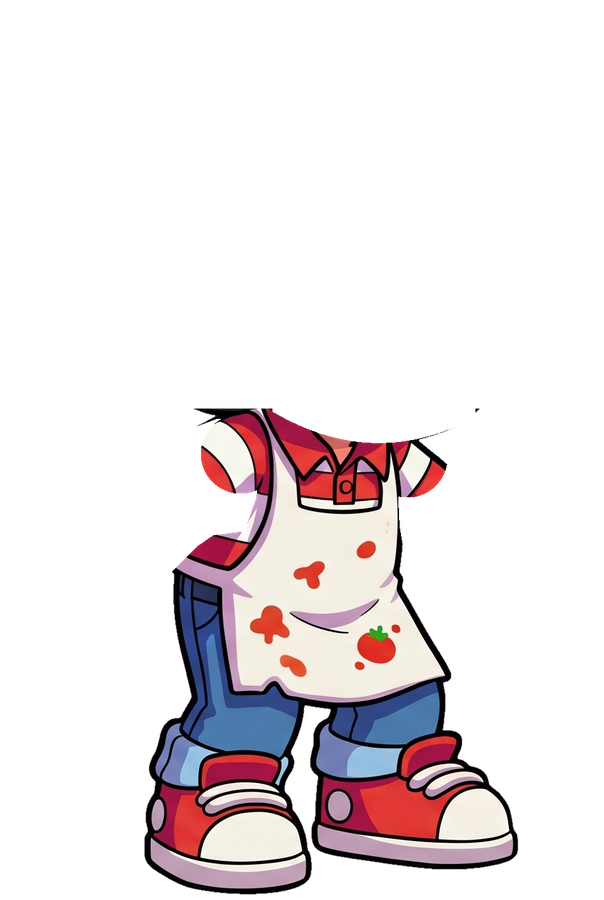
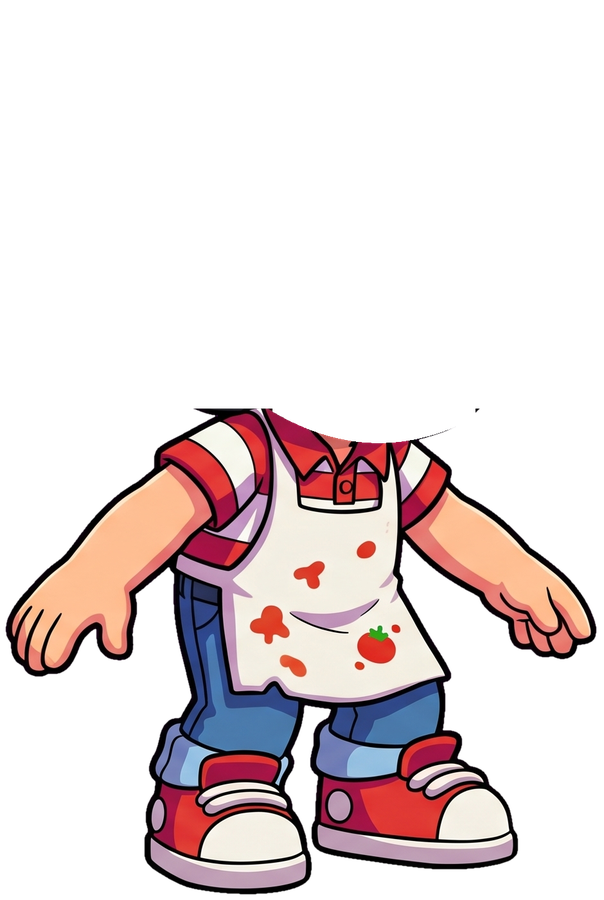
Pizza Rush: Tony arms merged into the body and never animated
Claude-Session: https://claude.ai/code/session_0182kiXh1gpsSteoiPFXToWD

Changed region(s): [[0.0, 0.4667, 0.447, 0.7778], [0.6556, 0.4978, 1.0, 0.7467]]

diff --git a/Reimei Games/tools/RigLab/atelier/pizza-rush/tony_rig.py b/Reimei Games/tools/RigLab/atelier/pizza-rush/tony_rig.py
@@ -17,8 +17,6 @@ os_ = lambda nom, piv, parent: {'name': nom, 'pivot': piv, 'parent': parent}
 parts = [P['socle'], os_('bassin', cv(1400, 1010), 'socle'),
          {**P['haut'], 'pivot': cv(1400, 860), 'parent': 'bassin'},
          os_('cou', COU, 'haut')]
-for b, piv in [('bras-d', cv(1282, 792)), ('bras-g', cv(1542, 798))]:
-    parts.append({**P[b], 'pivot': piv, 'parent': 'haut'})
 parts.append({**P['tete'], 'pivot': COU, 'parent': 'cou'})
 for v in VARIANTES: parts.append({**P[v], 'pivot': COU, 'parent': 'cou', 'alpha': 0})
 c = P['corps']; c['mesh'] = {'grid': [8, 12], 'falloff': 2.5,
@@ -56,33 +54,29 @@ def poser_pops():
             k(a, 'cou', t + 260, 'inOutSine', sx=1, sy=1)
 IN = '[0.22,1.4,0.4,1]'; OUT = '[0.4,0,1,1]'; IMP = '[0.2,1.8,0.4,1]'; S = 'inOutSine'; GL = '[0.12,0.72,0.12,1]'
 
-# ---------------- idle : respire, la tête suit avec retard, les bras balancent, clignement
+# BRAS : jamais animés (demande : ils restent toujours immobiles)
+# ---------------- idle : respire, la tête suit avec retard, clignement
 anim('idle', 2400, 1)
 for t, sy, y in [(0, 1, 0), (1200, 1.018, -3), (2400, 1, 0)]: k('idle', 'haut', t, S, sy=sy, y=y)
 for t, rot in [(0, 0), (700, 1.5), (1900, -1.2), (2400, 0)]: k('idle', 'cou', t, S, rot=r(rot))
-for t, rot in [(0, 0), (1260, -2.5), (2400, 0)]: k('idle', 'bras-d', t, S, rot=r(rot))
-for t, rot in [(0, 0), (1300, 2.5), (2400, 0)]: k('idle', 'bras-g', t, S, rot=r(rot))
 visage('idle', 'tete-yeux-fermes', 1640, 1780, pop=False)
 
-# ---------------- gain (petit) : 1370 ms, rebond + bras levé, sourire jusqu'aux oreilles
+# ---------------- gain (petit) : 1370 ms, rebond, sourire jusqu'aux oreilles
 A = 'gain'; anim(A, 1370, 0)
 k(A, 'socle', 0, sx=1, sy=1); k(A, 'socle', 110, S, sx=1.05, sy=0.93); k(A, 'socle', 300, IMP, sx=0.97, sy=1.06)
 k(A, 'socle', 520, S, sx=1, sy=1); k(A, 'socle', 1370, sx=1, sy=1)
 k(A, 'haut', 0, y=0); k(A, 'haut', 110, S, y=6); k(A, 'haut', 300, IN, y=-14); k(A, 'haut', 1100, S, y=-6); k(A, 'haut', 1370, S, y=0)
-k(A, 'bras-d', 0, rot=0); k(A, 'bras-d', 140, S, rot=r(-6)); k(A, 'bras-d', 360, IN, rot=r(34))
-k(A, 'bras-d', 560, S, rot=r(28)); k(A, 'bras-d', 760, S, rot=r(35)); k(A, 'bras-d', 960, S, rot=r(30)); k(A, 'bras-d', 1370, S, rot=0)
-k(A, 'bras-g', 0, rot=0); k(A, 'bras-g', 180, S, rot=r(4)); k(A, 'bras-g', 400, IN, rot=r(-12)); k(A, 'bras-g', 1370, S, rot=0)
 k(A, 'cou', 0, rot=0); k(A, 'cou', 330, IN, rot=r(-5)); k(A, 'cou', 1000, S, rot=r(-3)); k(A, 'cou', 1370, S, rot=0)
 visage(A, 'tete-rire', 300, 1180)
 L.append(f"evenement {A} 300 name=gain")
 
-# ---------------- grosgain : saut bras en l'air, la casquette décolle et retombe
+# ---------------- grosgain : saut, la casquette décolle et retombe
 A = 'grosgain'; anim(A, 1700, 0)
 k(A, 'socle', 0, y=0, sx=1, sy=1); k(A, 'socle', 120, S, y=14, sx=1.08, sy=0.88)
 k(A, 'socle', 260, '[0.3,1.5,0.5,1]', y=-90, sx=0.94, sy=1.1); k(A, 'socle', 520, GL, y=-120, sx=1, sy=1)
 k(A, 'socle', 760, OUT, y=0, sx=1, sy=1); k(A, 'socle', 820, IMP, sx=1.08, sy=0.9); k(A, 'socle', 980, S, sx=0.98, sy=1.03)
 k(A, 'socle', 1120, S, sx=1, sy=1); k(A, 'socle', 1700, sx=1, sy=1)
-# bras immobiles pendant le saut (demande : ils ne bougent pas quand il saute)
+# (bras : dans le corps, jamais animés)
 # fin de gain : il rebondit de joie sur place (pas de temps mort)
 for t, y, ease in [(0, 0, None), (1150, 0, None), (1300, -7, S), (1450, 0, S), (1580, -3, S), (1700, 0, S)]:
     k(A, 'haut', t, ease, y=y)
@@ -98,8 +92,6 @@ A = 'presque'; anim(A, 1500, 0)
 k(A, 'socle', 0, x=0, sx=1, sy=1); k(A, 'socle', 90, S, x=6, sx=1.03, sy=0.95); k(A, 'socle', 260, IMP, x=-14, sx=0.96, sy=1.06)
 k(A, 'socle', 600, S, x=-10, sx=1, sy=1); k(A, 'socle', 1500, S, x=0)
 k(A, 'haut', 0, rot=0); k(A, 'haut', 260, IMP, rot=r(-4)); k(A, 'haut', 1000, S, rot=r(-2)); k(A, 'haut', 1500, S, rot=0)
-k(A, 'bras-d', 0, rot=0); k(A, 'bras-d', 250, IMP, rot=r(22)); k(A, 'bras-d', 900, S, rot=r(16)); k(A, 'bras-d', 1500, S, rot=0)
-k(A, 'bras-g', 0, rot=0); k(A, 'bras-g', 290, IMP, rot=r(-22)); k(A, 'bras-g', 940, S, rot=r(-16)); k(A, 'bras-g', 1500, S, rot=0)
 k(A, 'casquette', 0, y=0, x=0, rot=0); k(A, 'casquette', 180, y=0, x=0, rot=0)
 k(A, 'casquette', 400, GL, y=-34, x=-6, rot=r(-9)); k(A, 'casquette', 620, OUT, y=0, x=0, rot=r(3))
 k(A, 'casquette', 700, IMP, y=4, rot=r(-2)); k(A, 'casquette', 860, S, y=0, rot=0)
@@ -111,15 +103,13 @@ A = 'perte'; anim(A, 1500, 0)
 k(A, 'haut', 0, y=0, sy=1, rot=0); k(A, 'haut', 200, S, y=-4, sy=1.03); k(A, 'haut', 600, OUT, y=10, sy=0.96, rot=r(2))
 k(A, 'haut', 700, IMP, y=8, sy=0.97); k(A, 'haut', 1150, S, y=6, sy=0.975); k(A, 'haut', 1500, S, y=0, sy=1, rot=0)
 k(A, 'cou', 0, rot=0); k(A, 'cou', 620, OUT, rot=r(5)); k(A, 'cou', 720, IMP, rot=r(4)); k(A, 'cou', 1500, S, rot=0)
-k(A, 'bras-d', 0, rot=0); k(A, 'bras-d', 640, S, rot=r(-9)); k(A, 'bras-d', 1500, S, rot=0)
-k(A, 'bras-g', 0, rot=0); k(A, 'bras-g', 680, S, rot=r(9)); k(A, 'bras-g', 1500, S, rot=0)
 visage(A, 'tete-triste', 150, 1380)
 
-# ---------------- bonus : clin d'œil + bras levé, petit saut
+# ---------------- bonus : clin d'œil, petit saut
 A = 'bonus'; anim(A, 1500, 0)
 k(A, 'socle', 0, y=0, sx=1, sy=1); k(A, 'socle', 110, S, y=6, sx=1.06, sy=0.92); k(A, 'socle', 280, IN, y=-40, sx=0.97, sy=1.05)
 k(A, 'socle', 540, OUT, y=8, sx=1.06, sy=0.92); k(A, 'socle', 640, IMP, y=-5, sx=0.98, sy=1.03); k(A, 'socle', 780, S, y=0, sx=1, sy=1); k(A, 'socle', 1500, sx=1, sy=1)
-# bras immobiles pendant le saut
+# (bras : dans le corps, jamais animés)
 k(A, 'cou', 0, rot=0); k(A, 'cou', 320, IN, rot=r(6)); k(A, 'cou', 1200, S, rot=r(4)); k(A, 'cou', 1500, S, rot=0)
 visage(A, 'tete-clin', 340, 1250)
 L.append(f"evenement {A} 340 name=bonus")

diff --git a/Reimei Games/tools/RigLab/atelier/pizza-rush/tony_calques.py b/Reimei Games/tools/RigLab/atelier/pizza-rush/tony_calques.py
@@ -44,7 +44,7 @@ for nom, pts in BRAS.items():
     px, py = PIVOTS[nom]
     yy0, xx0 = np.mgrid[0:H, 0:W]
     epaule = m & ((xx0 - px) ** 2 + (yy0 - py) ** 2 < 62 ** 2)
-    corps[m & ~epaule] = 0
+    # bras laissés DANS le corps (ils ne bougent jamais : aucune coupe à l'épaule)
     info[nom] = {'pivot': list(PIVOTS[nom])}
 # le menton de la référence dépasse sous la coupe : on repère son contour noir (première ligne sombre sous la peau),
 # on lisse cette courbe (polynôme) et on retire tout au-dessus + l'épaisseur du trait. La tête fournit son propre menton.
@@ -129,7 +129,7 @@ json.dump(info, open(os.path.join(OUT, 'calques.json'), 'w'), indent=1)
 # ---------------------------------------------------------------- contrôle : remontage + superpositions
 fond = np.zeros((H, W, 4), np.uint8); fond[...] = (40, 30, 60, 255)
 img = Image.fromarray(fond)
-for n in ['bras-d', 'bras-g', 'tete', 'corps', 'casquette', 'meches']:
+for n in ['tete', 'corps', 'casquette', 'meches']:
     img.alpha_composite(Image.open(os.path.join(OUT, n + '.png')))
 box = (820, 40, 2000, 1520)
 pl = Image.new('RGB', (1180 * 4 // 2, 1480 // 2), (0, 0, 0))

diff --git a/Reimei Games/slots/pizza-rush/anims/LISEZMOI.md b/Reimei Games/slots/pizza-rush/anims/LISEZMOI.md
@@ -25,8 +25,8 @@ Rotation des clés : radians (Pixi). Nombres décimaux : toujours avec le zéro 
 
 ## Tony (personnage, à côté des rouleaux) : `anims/tony/`
 Tout se refait avec `sh atelier/pizza-rush/tony_tout.sh` (depuis RigLab) : détourage, calques découpés dans la référence,
-visages, rig, animations. Os : socle (pieds) → bassin → haut (buste) → cou → tête ; bras aux épaules
-(sous les manches). Expressions : la tête ne change JAMAIS ; seuls les traits (yeux, sourcils, bouche) sont posés dessus (`visage-*`, calés sur le nez,
+visages, rig, animations. Os : socle (pieds) → bassin → haut (buste) → cou → tête. Les bras font partie du corps et ne sont JAMAIS animés
+(demande : aucune coupe à l'épaule) ; le corps se plie en maillage avec le buste. Expressions : la tête ne change JAMAIS ; seuls les traits (yeux, sourcils, bouche) sont posés dessus (`visage-*`, calés sur le nez,
 peau repeinte sous les traits neutres) et permutés d'une image à l'autre, avec un petit écrasement de la tête.
 Visages : yeux fermés (clignement), rire, choc, triste, clin d'œil.
 
@@ -34,8 +34,8 @@ Visages : yeux fermés (clignement), rire, choc, triste, clin d'œil.
 |---|---|---|---|
 | `idle` | 2400 ms, boucle | toujours | — (clignement à 1640 ms) |
 | `gain` | 1370 ms | petit gain | `gain` 300 |
-| `grosgain` | 1700 ms | gros gain / big win (saut, bras immobiles) | `gain` 0, `impact` 760 (atterrissage) |
+| `grosgain` | 1700 ms | gros gain / big win (saut) | `gain` 0, `impact` 760 (atterrissage) |
 | `presque` | 1500 ms | 2 scatters, raté de peu | `choc` 80 |
 | `perte` | 1500 ms | série de pertes (pas à chaque spin) | — |
-| `bonus` | 1500 ms | déclenchement des free spins (petit saut + clin d'œil, bras immobiles) | `bonus` 340 |
+| `bonus` | 1500 ms | déclenchement des free spins (petit saut + clin d'œil) | `bonus` 340 |
 Revenir à `idle` après chaque clip (mix 160 ms).
